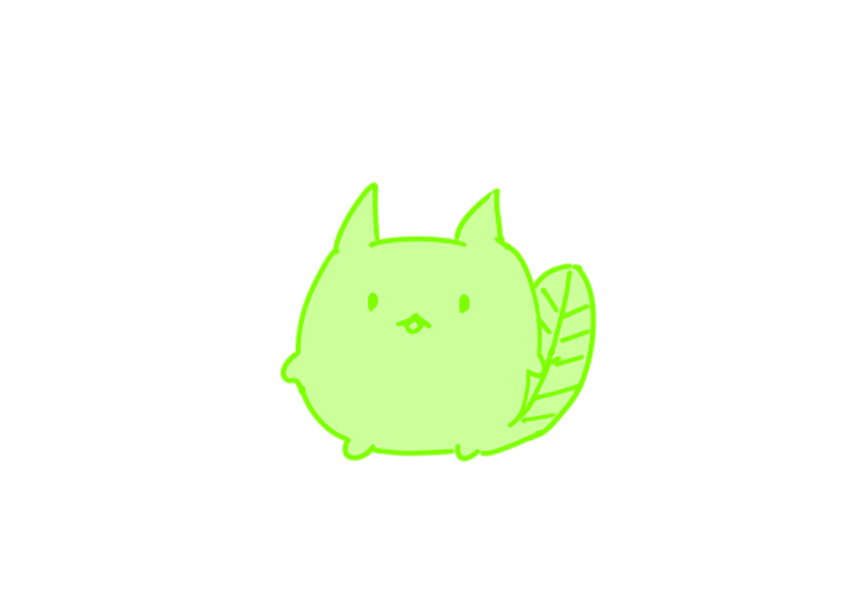
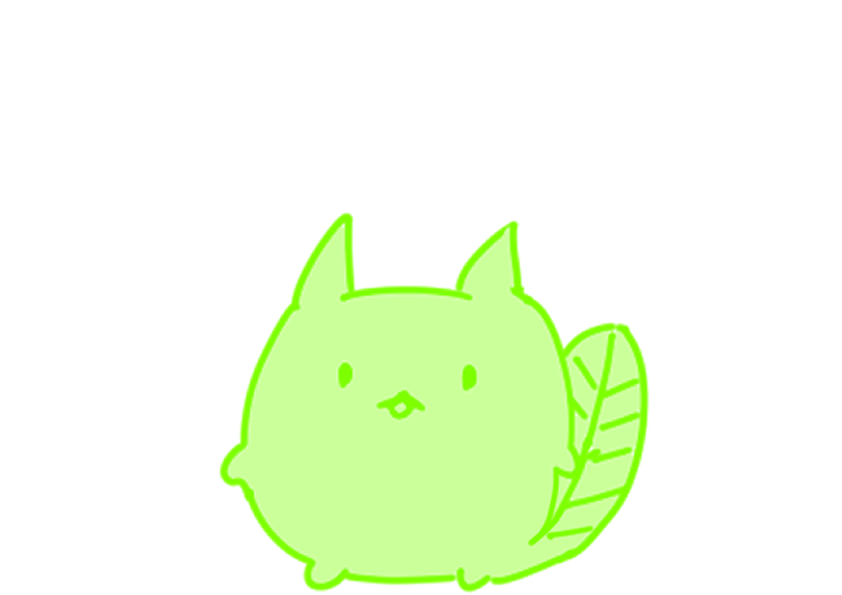
Update slot 4 and 20 art with redrawn versions
Leaf cat (slot 4) replaced with midoneko.jpg, reindeer (slot 20)
with the updated umo.jpg. Service worker cache bumped to v5.

diff --git a/sw.js b/sw.js
@@ -1,4 +1,4 @@
-const CACHE_NAME = 'wakemon-cache-v4';
+const CACHE_NAME = 'wakemon-cache-v5';
 const APP_SHELL = [
   './',
   './index.html',
